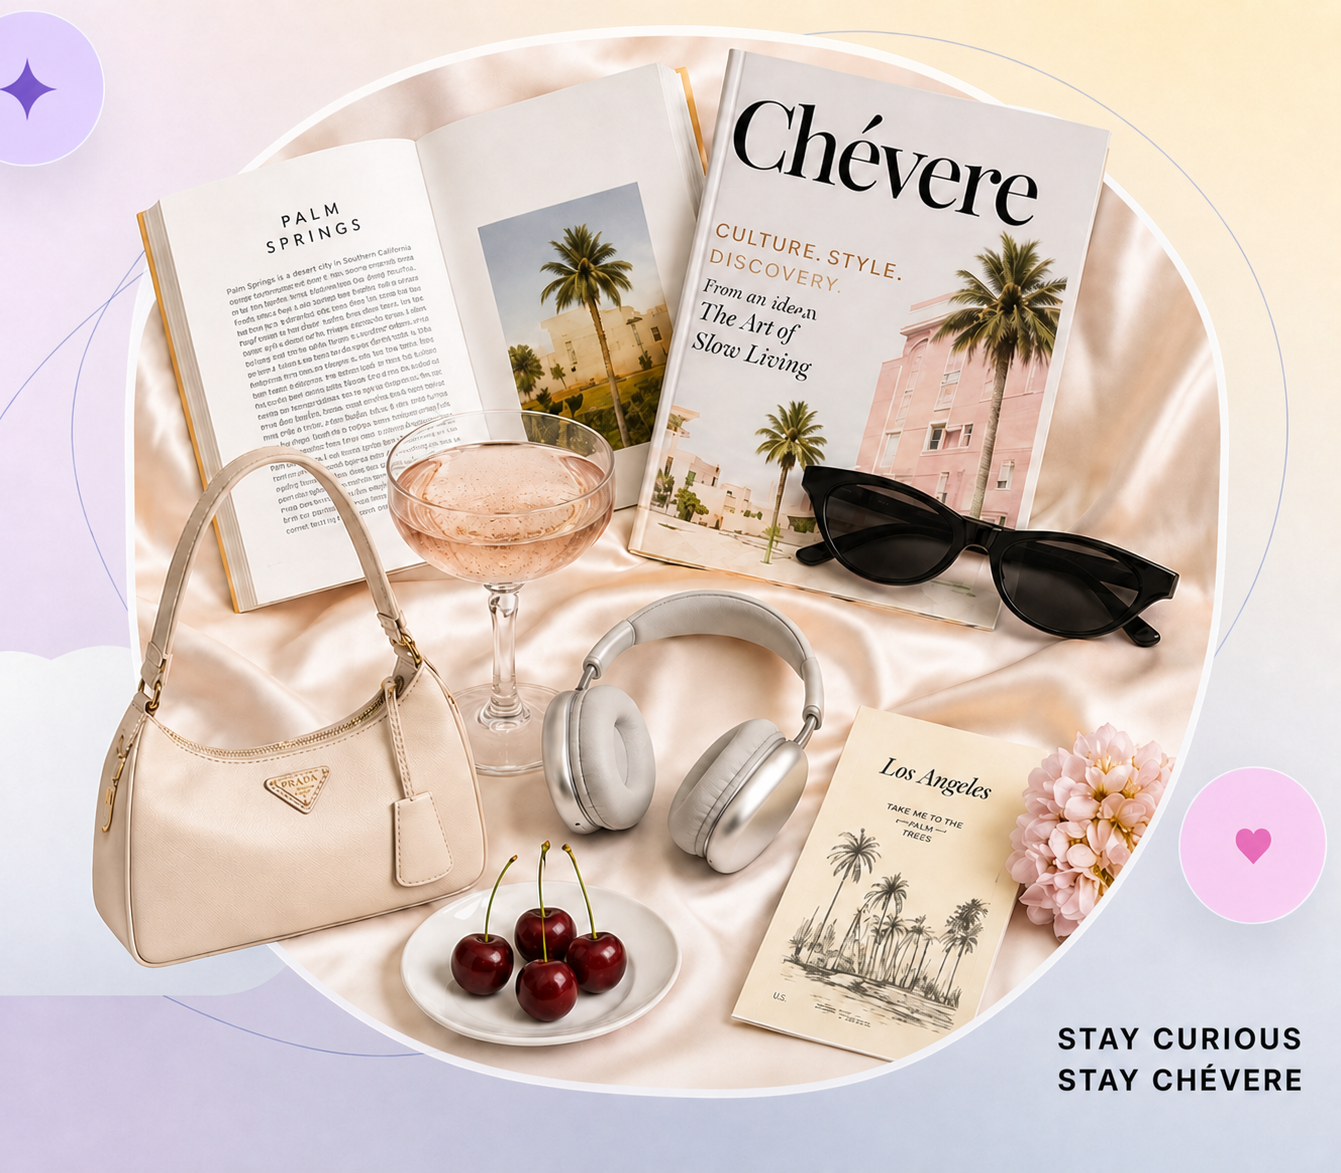
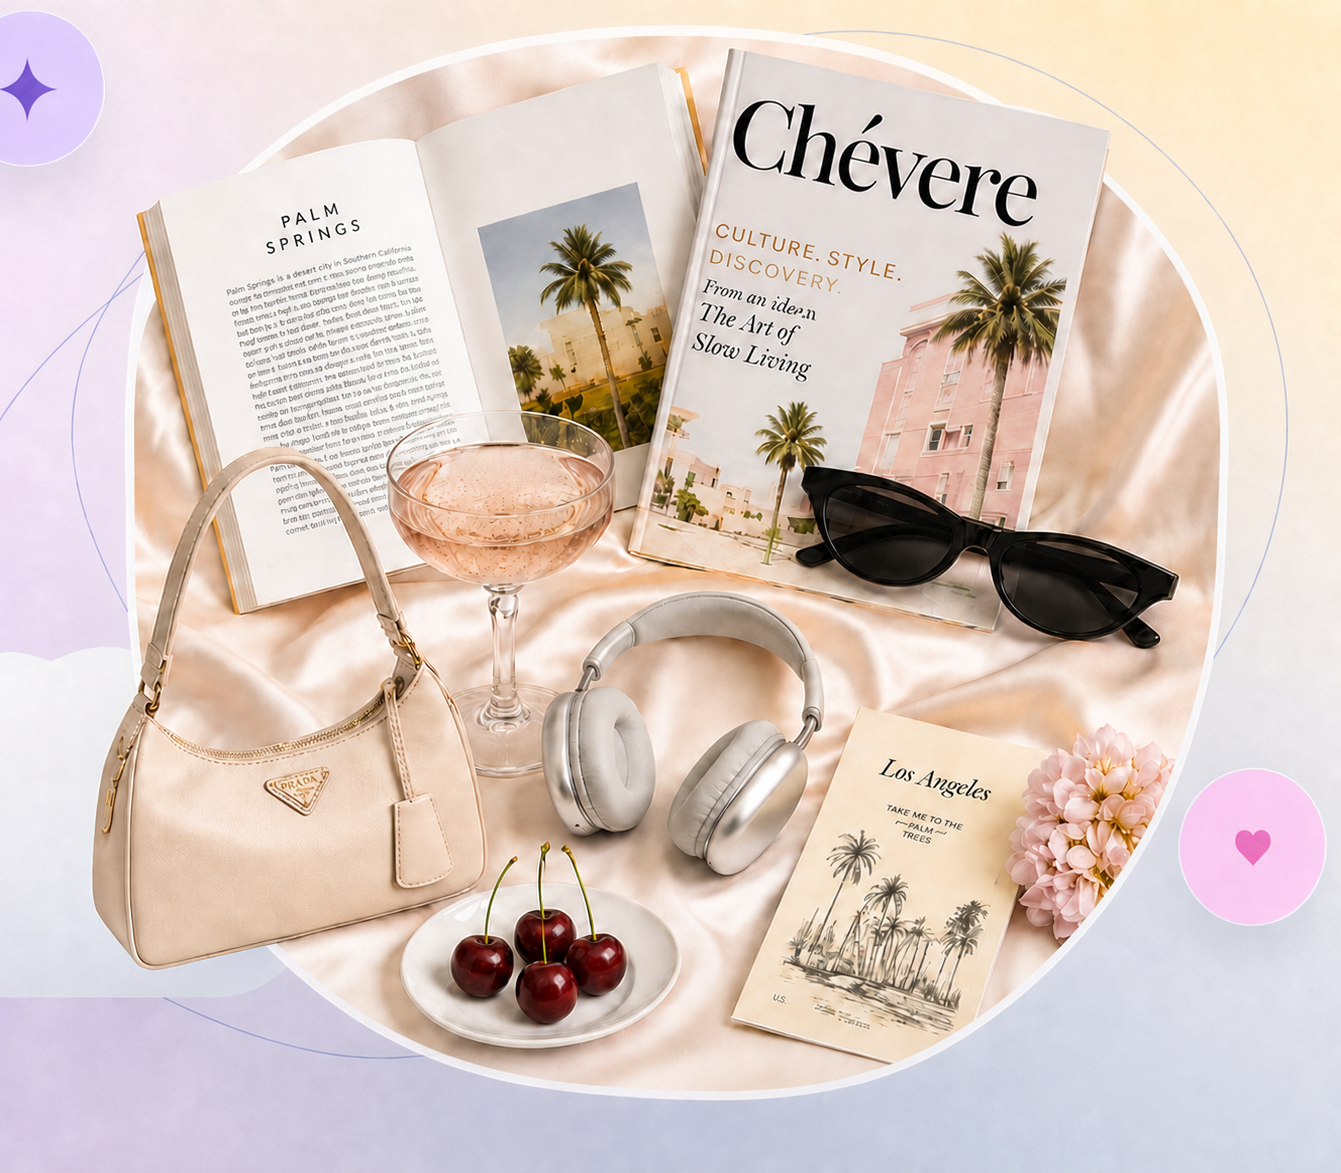
Remove stray hero collage text

diff --git a/index.html b/index.html
@@ -101,7 +101,7 @@
       <span class="hero-heart" aria-hidden="true">♥</span>
       <div class="hero-cloud hero-cloud--back" aria-hidden="true"></div>
       <div class="hero-portrait">
-        <img class="hero-portrait__collage" src="assets/chevere-homepage-editorial-collage-final.png" alt="Chévere editorial collage featuring books, fashion, travel, music, and lifestyle objects" width="1350" height="1165" />
+        <img class="hero-portrait__collage" src="assets/chevere-homepage-editorial-collage-final.png?v=20260803-3" alt="Chévere editorial collage featuring books, fashion, travel, music, and lifestyle objects" width="1341" height="1173" />
       </div>
       <div class="hero-cloud hero-cloud--front" aria-hidden="true"></div>
     </div>
